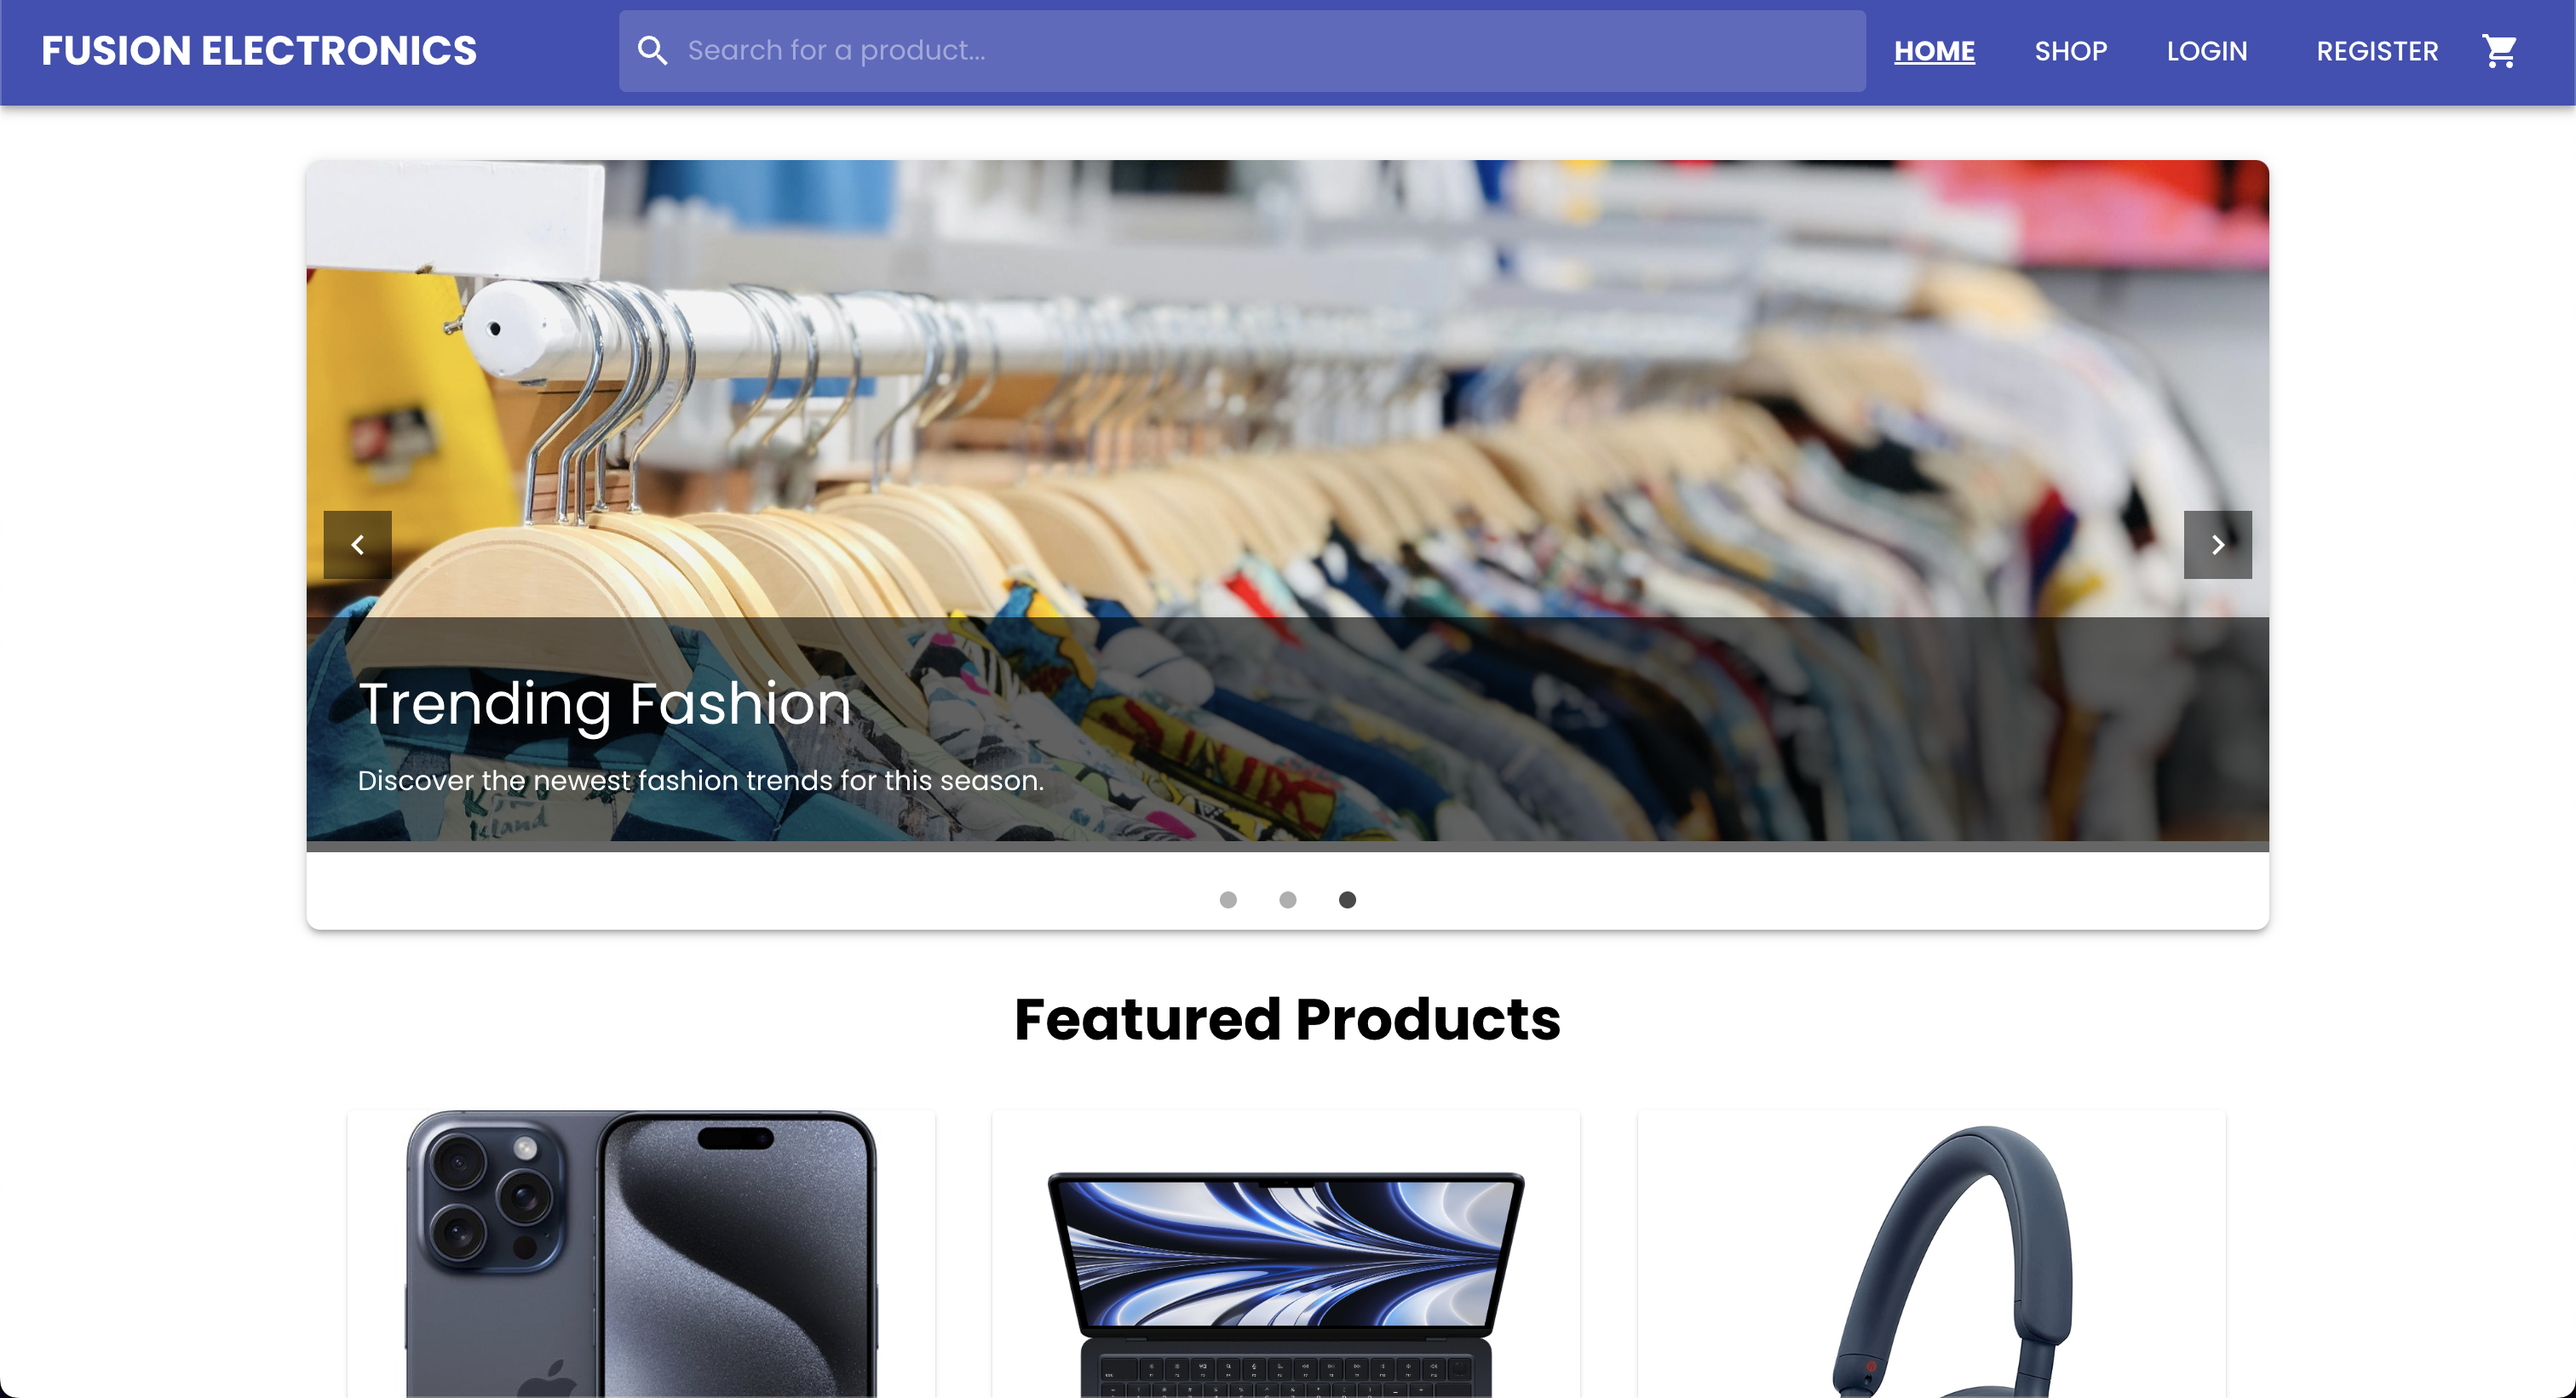
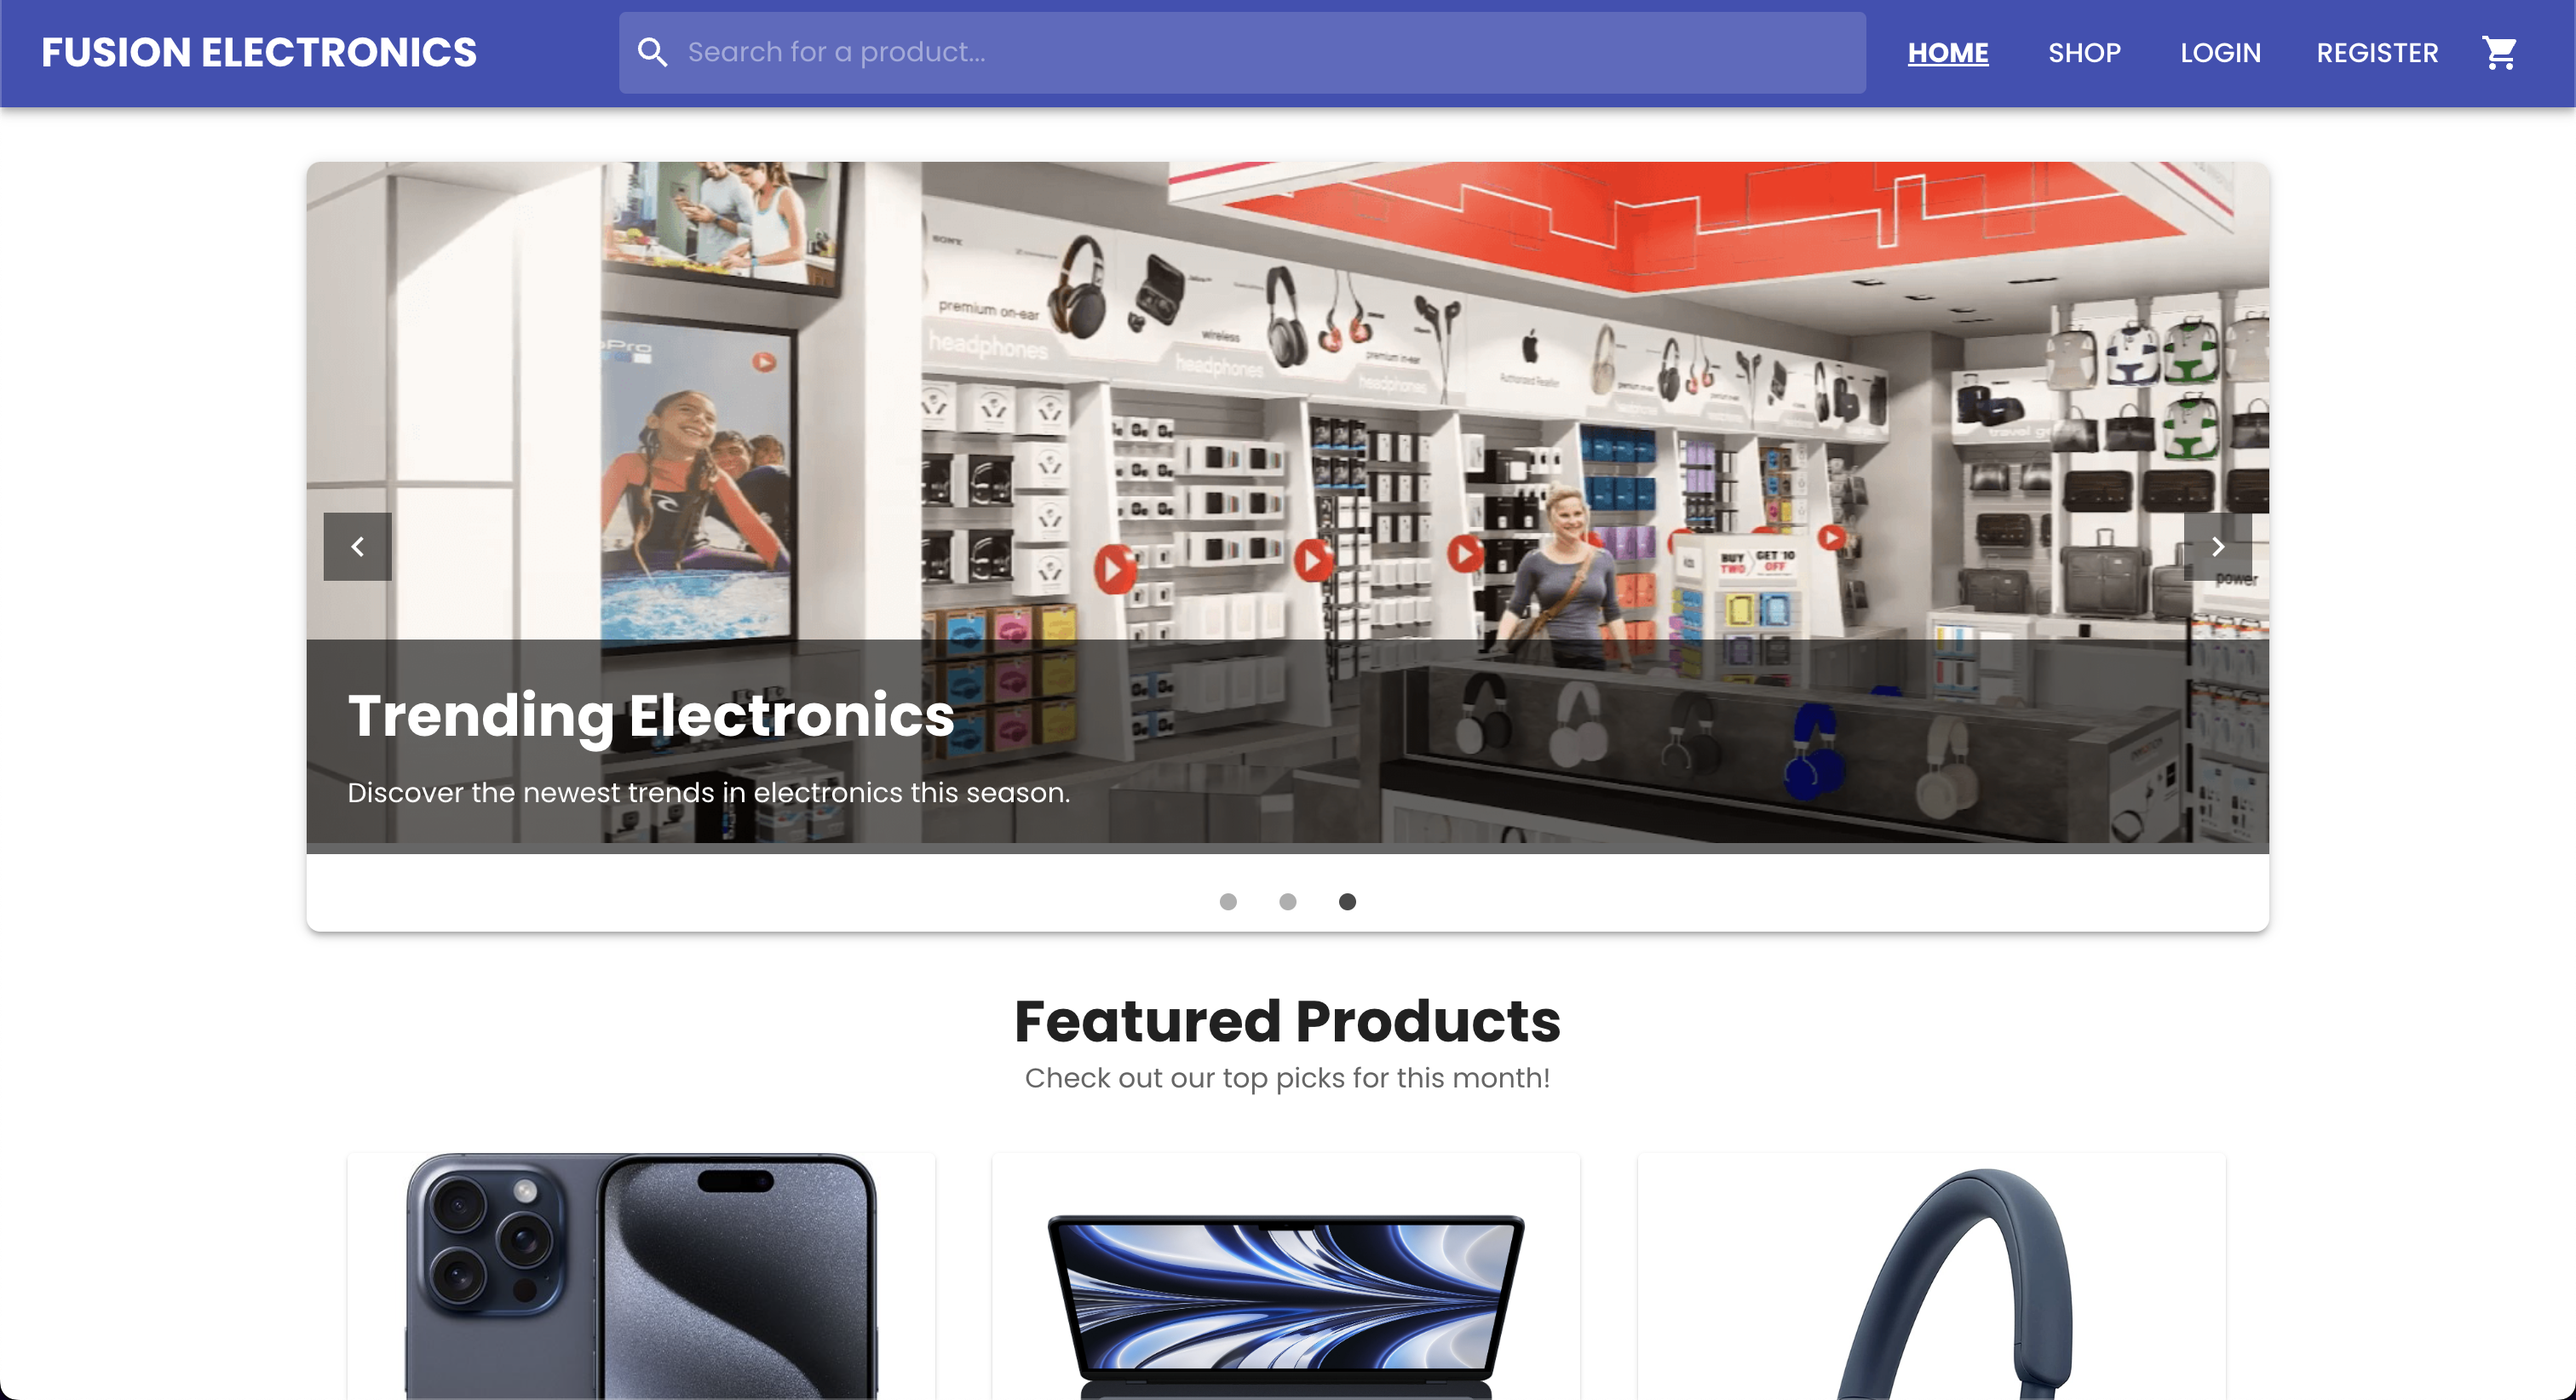
feat(ci/cd): add CI/CD pipeline and enhance testing

diff --git a/src/pages/Home.jsx b/src/pages/Home.jsx
@@ -5,7 +5,7 @@ import axios from 'axios';
 import ProductCard from '../components/ProductCard';
 import summerSaleImage from '../assets/images/summer-sale.jpg';
 import techGadgetsImage from '../assets/images/tech-gadgets.jpg';
-import trendingFashionImage from '../assets/images/trending-fashion.jpg';
+import trendingFashionImage from '../assets/images/trending-fashion.png';
 import '../App.css';
 
 const StyledCarousel = styled(Carousel)({
@@ -87,7 +87,7 @@ function Home({ products, addToCart, error, loading }) {
   const bannerImages = [
     { url: summerSaleImage, title: 'Summer Sale - Up to 50% Off', description: 'Shop now for the best deals on summer essentials!' },
     { url: techGadgetsImage, title: 'New Tech Gadgets', description: 'Explore the latest in tech and gadgets.' },
-    { url: trendingFashionImage, title: 'Trending Fashion', description: 'Discover the newest fashion trends for this season.' },
+    { url: trendingFashionImage, title: 'Trending Electronics', description: 'Discover the newest trends in electronics this season.' },
   ];
 
   return (

diff --git a/src/tests/Home.test.js b/src/tests/Home.test.js
@@ -14,7 +14,7 @@ jest.mock('../assets/images/tech-gadgets.jpg', () => 'tech.jpg');
 jest.mock('../assets/images/trending-fashion.jpg', () => 'fashion.jpg');
 
 describe('<Home />', () => {
-  const bannerAlts = ['Summer Sale - Up to 50% Off', 'New Tech Gadgets', 'Trending Fashion'];
+  const bannerAlts = ['Summer Sale - Up to 50% Off', 'New Tech Gadgets', 'Trending Electronics'];
 
   const makeProducts = n =>
     Array.from({ length: n }, (_, i) => ({

diff --git a/README.md b/README.md
@@ -140,6 +140,12 @@ The **backup** backend server is deployed on Render and can be accessed at the f
     <img src="docs/home-ui.png" alt="Fusion Electronics Homepage" style="border-radius: 10px" width="100%"/>
 </p>
 
+### Recommended Products (based on user interaction)
+
+<p align="center">
+    <img src="docs/recommended-products-ui.png" alt="Fusion Electronics Recommended Products" style="border-radius: 10px" width="100%"/>
+</p>
+
 ### Full Product List
 
 <p align="center">
